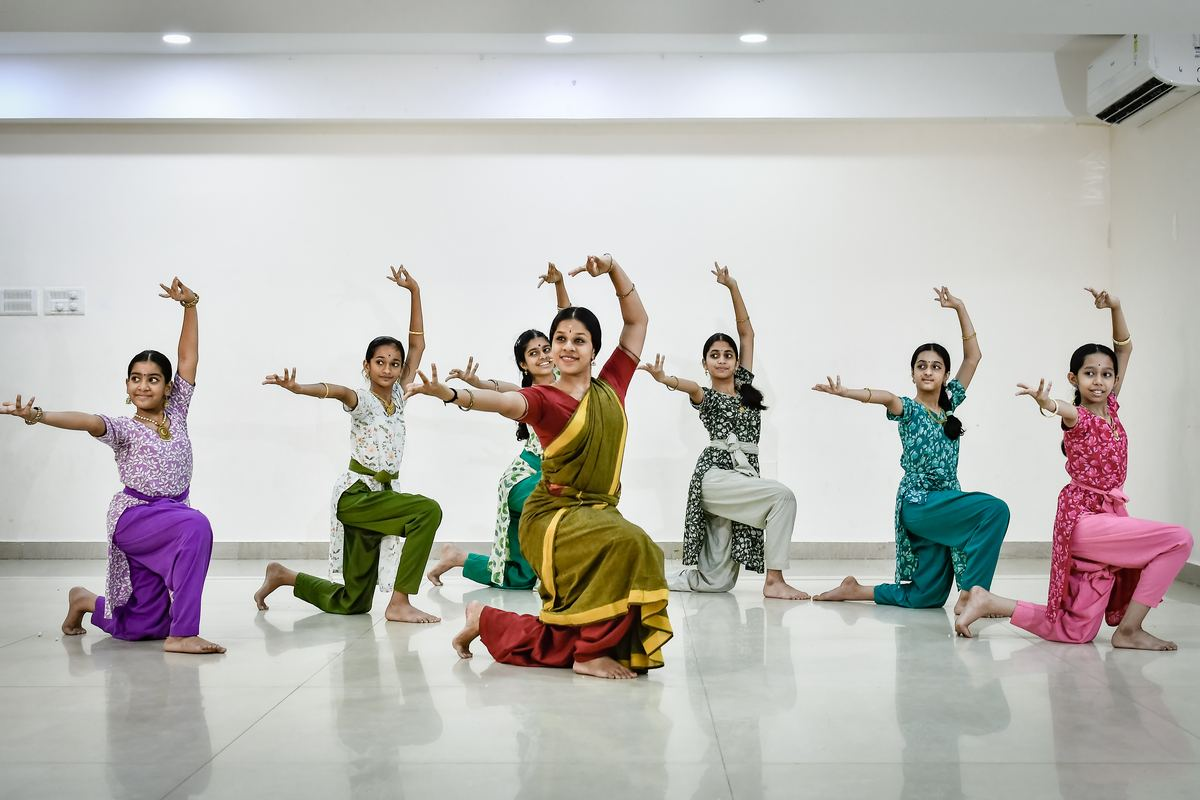
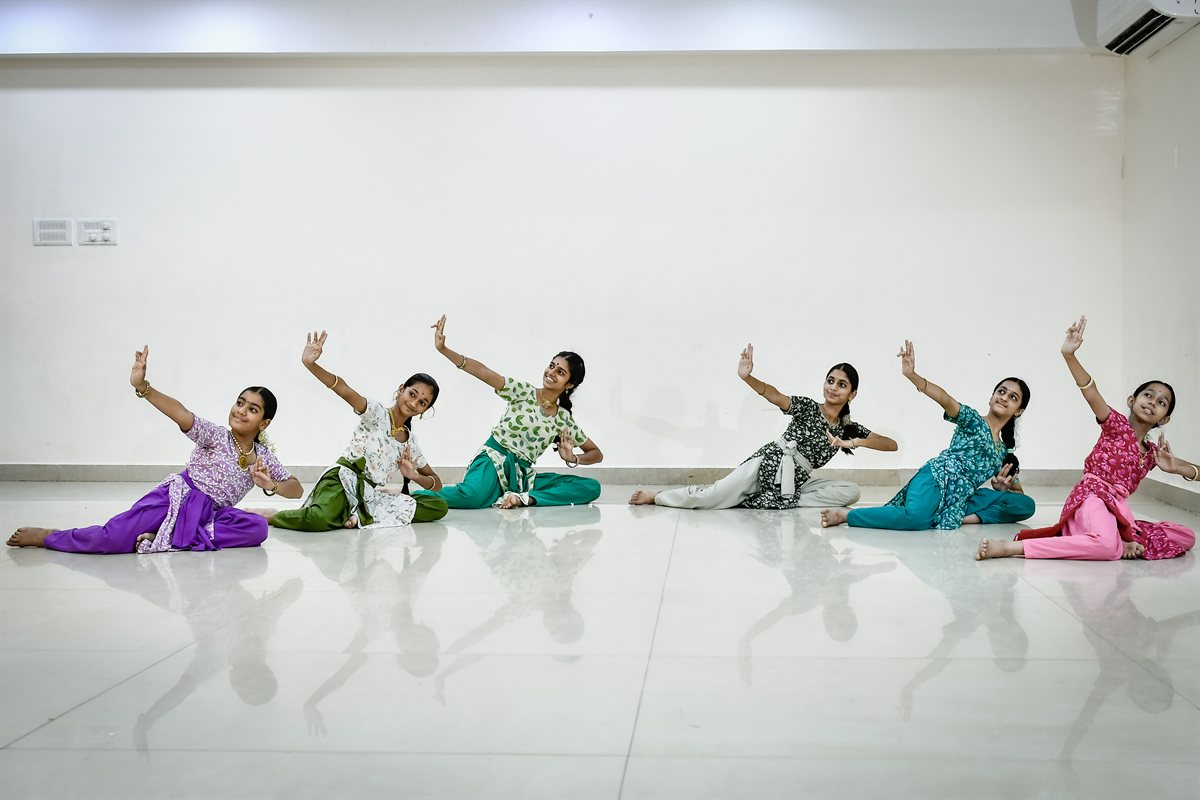
A photograph for the adults section, and a new one for Level 3
The adults section listed its batches with no picture at all. It now has one,
laid out as the Introductory section is: batches on the left, photograph in the
22rem column on the right. The batch grid drops from three columns to two, since
the column it sits in is narrower now.

The photograph is _DSC6455, from Classes\AS5 - the Monday adults batch at
Appswamy Springs, which is audience: adults in lib/classes.ts. Two adults sideby
side, each with one arm raised overhead and one hand at the waist. Its path and
alt live in a new ADULTS export beside INTRODUCTORY and ARANGETRAM, because
adults are not a programme of their own and there was otherwise nowhere for the
image to go.

Level 3 is now _DSC6028, six students seated in a row on the studio floor. It
comes from Classes\AS1, which is programmeId: level-3 at Appswamy Springs, so the
venue the alt text has always claimed is now verifiable from the batch table
rather than carried over. The previous photograph showed a teacher in a lunge;
this one has no teacher in it, so the alt says what is actually there.

Both are scaled to 1200x800 to match the rest of public/img/pages.

diff --git a/web/app/curriculum/page.tsx b/web/app/curriculum/page.tsx
@@ -4,7 +4,7 @@ import Link from 'next/link';
 import JsonLd from '@/components/JsonLd';
 import { PageHero, PageShell, Section } from '@/components/PageShell';
 import BookButton from '@/components/BookButton';
-import { ARANGETRAM, CURRICULUM_INTRO, INTRODUCTORY, LEVELS } from '@/lib/curriculum';
+import { ADULTS, ARANGETRAM, CURRICULUM_INTRO, INTRODUCTORY, LEVELS } from '@/lib/curriculum';
 import { SITE } from '@/lib/site';
 import { adultBatches, allBatches, formatBatchTime } from '@/lib/classes';
 import { homeGraph } from '@/lib/schema';
@@ -287,30 +287,45 @@ export default function CurriculumPage() {
         <Section
           eyebrow="Not only for children"
           heading="Adults follow the same syllabus"
-          lede="Beginning late changes the pace, not the path. Adults work through the same graded levels, in batches of their own."
+          lede="Beginning late changes the pace, not the path. Adults work through the same graded levels, in batches of their own. Teaching methodology is modified based on individual requirements."
         >
-          <ul className="grid items-start gap-5 sm:grid-cols-2 lg:grid-cols-3">
-            {adults.map(({ venue, batch, programme }) => (
-              <li
-                key={batch.code}
-                className="rounded-[1.25rem] border border-marigold/30 bg-paper/60 px-5 py-5"
-              >
-                <p className="font-display text-[0.72rem] tracking-[0.14em] text-nila-700">
-                  {batch.code}
-                </p>
-                <h3 className="mt-2 font-display text-[1.05rem] leading-snug font-semibold text-teal-deep">
-                  {programme.label} — {programme.name}
-                </h3>
-                <p className="mt-1.5 font-sans text-sm text-ink-soft">{venue.name}</p>
-                <p className="mt-0.5 font-sans text-xs text-ink-faint">
-                  {formatBatchTime(batch)}
-                  {batch.provisionalTiming ? ' (provisional)' : ''}
-                </p>
-              </li>
-            ))}
-          </ul>
-          <div className="mt-8">
-            <BookButton source="curriculum-adults" audience="adult">Enquire about adult batches</BookButton>
+          <div className="grid gap-10 lg:grid-cols-[minmax(0,1fr)_22rem] lg:gap-14">
+            <div>
+              <ul className="grid items-start gap-5 sm:grid-cols-2">
+                {adults.map(({ venue, batch, programme }) => (
+                  <li
+                    key={batch.code}
+                    className="rounded-[1.25rem] border border-marigold/30 bg-paper/60 px-5 py-5"
+                  >
+                    <p className="font-display text-[0.72rem] tracking-[0.14em] text-nila-700">
+                      {batch.code}
+                    </p>
+                    <h3 className="mt-2 font-display text-[1.05rem] leading-snug font-semibold text-teal-deep">
+                      {programme.label} — {programme.name}
+                    </h3>
+                    <p className="mt-1.5 font-sans text-sm text-ink-soft">{venue.name}</p>
+                    <p className="mt-0.5 font-sans text-xs text-ink-faint">
+                      {formatBatchTime(batch)}
+                      {batch.provisionalTiming ? ' (provisional)' : ''}
+                    </p>
+                  </li>
+                ))}
+              </ul>
+              <div className="mt-8">
+                <BookButton source="curriculum-adults" audience="adult">Enquire about adult batches</BookButton>
+              </div>
+            </div>
+
+            <figure className="curtain overflow-hidden rounded-[1.5rem]">
+              <Image
+                src={ADULTS.image}
+                alt={ADULTS.imageAlt}
+                width={1200}
+                height={800}
+                sizes="(max-width: 1024px) 100vw, 22rem"
+                className="h-auto w-full object-cover"
+              />
+            </figure>
           </div>
         </Section>
       ) : null}

diff --git a/web/lib/curriculum.ts b/web/lib/curriculum.ts
@@ -94,7 +94,7 @@ export const LEVELS: Programme[] = [
     repertoire: ['Alarippu', 'Tevaram', 'Divya Prabandham'],
     develops: ['Memory for long sequences', 'Musical understanding', 'Independent self-correction'],
     image: '/img/pages/level-3.jpg',
-    imageAlt: 'A Level 3 batch at Appswamy Springs, students and their teacher in a lunge with arms outstretched',
+    imageAlt: 'Six students seated in a row on the studio floor, each with one arm raised overhead and one held in front, at Appswamy Springs',
   },
   {
     id: 'level-4',
@@ -158,6 +158,19 @@ export const ARANGETRAM = {
 
 /** Introductory + six levels, in teaching order. Excludes Arangetram by design. */
 export const TEACHING_PROGRAMMES: Programme[] = [INTRODUCTORY, ...LEVELS];
+
+/**
+ * The adults section's photograph.
+ *
+ * Adults are not a programme of their own - they work through the same six
+ * levels in batches of their own, which is why the section draws its batches
+ * from lib/classes.ts rather than from a programme here. The picture belongs to
+ * AS5, the Monday adults batch, and there was nowhere else for it to live.
+ */
+export const ADULTS = {
+  image: '/img/pages/adults.jpg',
+  imageAlt: 'Two adults practising in class, both with one arm raised overhead and one hand at the waist',
+} as const;
 
 /** Transcribed framing for the curriculum as a whole. */
 export const CURRICULUM_INTRO = {
